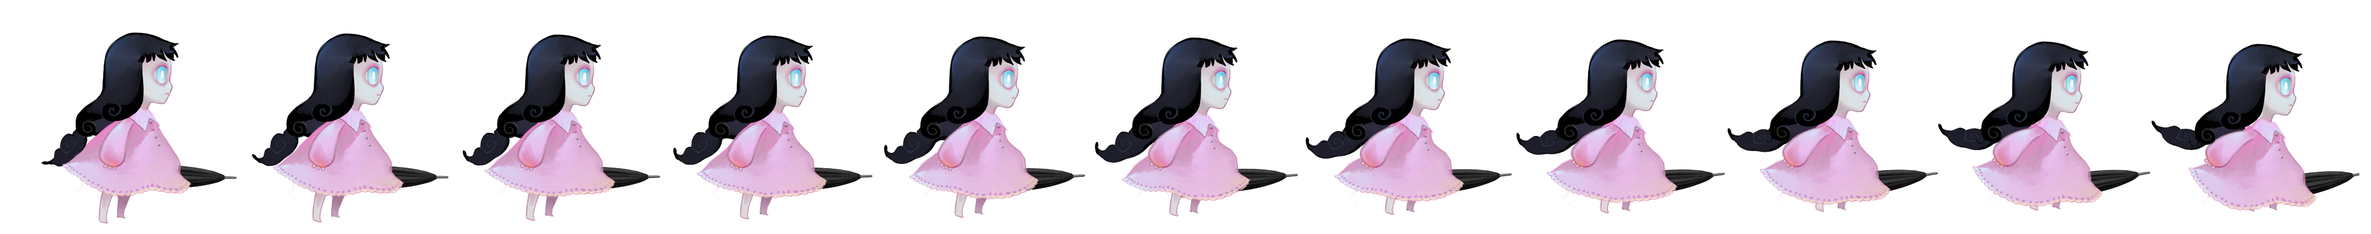
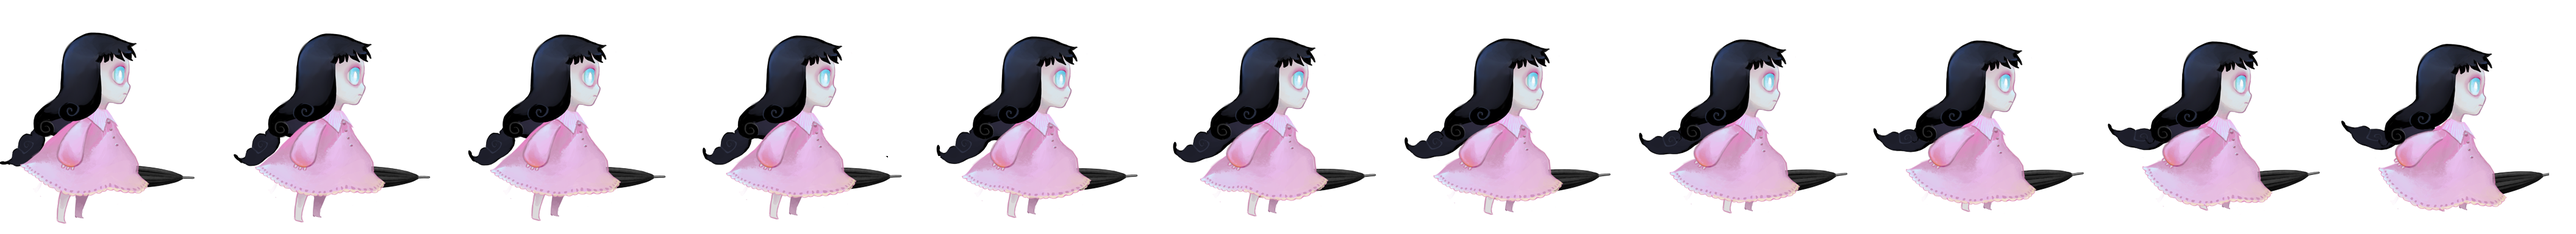
Escala funcionando

Changed region(s): [[0.0, 0.125, 0.9025, 0.9375], [0.9025, 0.1875, 0.9959, 0.9062]]

diff --git a/src/GameState.cpp b/src/GameState.cpp
@@ -71,11 +71,13 @@ void GameState::update(float dt)
 	// particleEmitterSystem_.update( dt, level_->getCollisionMap(), mapTransform_[particleEmitter_], mapEmitter_[particleEmitter_], mapTimer_[particleEmitter_] );
 	moveSystem_.update( dt, mapTransform_, mapSpeed_ );
 	collisionSystem_.update( player_, level_->getCollisionMap(), oldTransform, mapTransform_, mapCollider_, mapSpeed_, oldState, mapState_, mapZipline_ );
-	renderSystem_.update( dt, mapTransform_, oldState, mapState_, mapRender_ );
-	playerRenderSystem_.update( dt, mapTransform_[player_], (PlayerStateComponent*)oldState[player_], (PlayerStateComponent*)mapState_[player_], &playerRenderComponent_ ); // ai q feio
+	renderSystem_.update( dt, oldState, mapState_, mapRender_ );
+	playerRenderSystem_.update( dt, (PlayerStateComponent*)oldState[player_], (PlayerStateComponent*)mapState_[player_], &playerRenderComponent_ ); // ai q feio
 	soundSystem_.update(oldState, mapState_, mapSound_);
 
 	Camera::update(dt);
+
+	std::cout << mapTransform_[player_]->scale_.x() << std::endl;
 
 
 	if (InputHandler::getInstance().keyPress(ESCAPE_KEY)) {
@@ -127,30 +129,30 @@ void GameState::createPlayer()
 	nextId_++;
 
 
-	mapTransform_.emplace(player_, new TransformComponent(Rect(352, 100, 52, 90), Vec2(0.2, 0.2), 0));
+	mapTransform_.emplace(player_, new TransformComponent(Rect(352, 100, 52, 90), Vec2(0.3, 0.3), 0));
 	mapCollider_.emplace(player_, new ColliderComponent(Rect(0, 0, 52, 90)));
 	mapState_.emplace(player_, new PlayerStateComponent());
 	mapPhysics_.emplace(player_, new PhysicsComponent());
 	mapSpeed_.emplace(player_, new SpeedComponent());
 	mapSound_.emplace(player_, new SoundComponent());
 
-/*	playerRenderComponent_.addSprite(State::IDLE, UmbrellaState::CLOSED, UmbrellaDirection::DOWN, 
+	playerRenderComponent_.addSprite(State::IDLE, UmbrellaState::CLOSED, UmbrellaDirection::DOWN, 
 		Sprite("../img/characters/player/idle.png", 24, 0.01));
 	playerRenderComponent_.addSprite(State::WALKING, UmbrellaState::CLOSED, UmbrellaDirection::DOWN, 
-		Sprite("../img/characters/player/run_front_closed.png", 24, 0.01));
+		Sprite("../img/characters/player/running_front_closed.png", 24, 0.01));
 	playerRenderComponent_.addSprite(State::JUMPING, UmbrellaState::CLOSED, UmbrellaDirection::DOWN, 
-		Sprite("../img/characters/player/jump_front_closed.png", 23, 0.01));
+		Sprite("../img/characters/player/jumping_front_closed.png", 23, 0.01));
 	playerRenderComponent_.addSprite(State::FALLING, UmbrellaState::CLOSED, UmbrellaDirection::DOWN, 
-		Sprite("../img/characters/player/falling_front_closed.png", 11, 0.01));*/
+		Sprite("../img/characters/player/falling_front_closed.png", 11, 0.01));
 
-	playerRenderComponent_.addSprite(State::IDLE, UmbrellaState::CLOSED, UmbrellaDirection::DOWN, 
+/*	playerRenderComponent_.addSprite(State::IDLE, UmbrellaState::CLOSED, UmbrellaDirection::DOWN, 
 		Sprite("../img/characters/idle.png"));
 	playerRenderComponent_.addSprite(State::WALKING, UmbrellaState::CLOSED, UmbrellaDirection::DOWN, 
 		Sprite("../img/characters/idle.png"));
 	playerRenderComponent_.addSprite(State::JUMPING, UmbrellaState::CLOSED, UmbrellaDirection::DOWN, 
 		Sprite("../img/characters/idle.png"));
 	playerRenderComponent_.addSprite(State::FALLING, UmbrellaState::CLOSED, UmbrellaDirection::DOWN, 
-		Sprite("../img/characters/idle.png"));
+		Sprite("../img/characters/idle.png"));*/
 
 	mapSound_[player_]->addSound(State::JUMPING, Sound("../audio/character_jump.wav"));
 	mapSound_[player_]->addSound(State::FALLING, Sound("../audio/character_fall.wav"));	//Mudar para ("estado: colidindo com o chão")

diff --git a/src/RenderSystem.cpp b/src/RenderSystem.cpp
@@ -10,7 +10,6 @@ RenderSystem::RenderSystem()
 
 void RenderSystem::update(
 	float dt,
-	std::map<int, TransformComponent*> transfComp,
 	std::map<int, StateComponent*> oldState,
 	std::map<int, StateComponent*> stateComp,
 	std::map<int, std::map<int, RenderComponent*>> renderComp)
@@ -21,8 +20,6 @@ void RenderSystem::update(
 		{
 			if (stateComp[render.first]->state_ != oldState[render.first]->state_)
 			{
-				render.second->getSprite(stateComp[render.first]->state_).setScaleX(transfComp[render.first]->scale_.x());
-				render.second->getSprite(stateComp[render.first]->state_).setScaleY(transfComp[render.first]->scale_.y());
 				render.second->getSprite(stateComp[render.first]->state_).setFrame(0);
 			}
 			render.second->getSprite(stateComp[render.first]->state_).update(dt);
@@ -57,6 +54,8 @@ void RenderSystem::render(
 	for(auto& render : renderComp)
 	{
 		Rect transform = transfComp[render.first]->rect_;
+		render.second->getSprite(stateComp[render.first]->state_).setScaleX(transfComp[render.first]->scale_.x());
+		render.second->getSprite(stateComp[render.first]->state_).setScaleY(transfComp[render.first]->scale_.y());
 		render.second->getSprite(stateComp[render.first]->state_).render(
 			transform.x() + layerSpeed.x(),
 			transform.y() + layerSpeed.y(),

diff --git a/src/PlayerRenderSystem.cpp b/src/PlayerRenderSystem.cpp
@@ -9,7 +9,6 @@ PlayerRenderSystem::PlayerRenderSystem()
 
 void PlayerRenderSystem::update(
 	float dt,
-	TransformComponent* transfComp,
 	PlayerStateComponent* oldState,
 	PlayerStateComponent* stateComp,
 	PlayerRenderComponent* renderComp)
@@ -23,8 +22,6 @@ void PlayerRenderSystem::update(
 		stateComp->umbrellaState_ != oldState->umbrellaState_ || 
 		stateComp->umbrellaDirection_ != oldState->umbrellaDirection_)
 	{
-		renderComp->getSprite(spriteKey).setScaleX(transfComp->scale_.x());
-		renderComp->getSprite(spriteKey).setScaleY(transfComp->scale_.y());
 		renderComp->getSprite(spriteKey).setFrame(0);
 	}
 	renderComp->getSprite(spriteKey).update(dt);
@@ -41,6 +38,8 @@ void PlayerRenderSystem::render(
 	spriteKey.umbrellaDirection = stateComp->umbrellaDirection_;
 
 	Rect transform = transfComp->rect_;
+	renderComp->getSprite(spriteKey).setScaleX(transfComp->scale_.x());
+	renderComp->getSprite(spriteKey).setScaleY(transfComp->scale_.y());
 	renderComp->getSprite(spriteKey).render(
 		transform.x(),
 		transform.y(),

diff --git a/include/RenderSystem.hpp b/include/RenderSystem.hpp
@@ -14,7 +14,6 @@ public:
 	RenderSystem();
 	void update(
 		float dt,
-		std::map<int, TransformComponent*> transfComp,
 		std::map<int, StateComponent*> oldState,
 		std::map<int, StateComponent*> stateComp,
 		std::map<int, std::map<int, RenderComponent*>> renderComp

diff --git a/include/PlayerRenderSystem.hpp b/include/PlayerRenderSystem.hpp
@@ -14,7 +14,6 @@ public:
 	PlayerRenderSystem();
 	void update(
 		float dt,
-		TransformComponent* transfComp,
 		PlayerStateComponent* oldState,
 		PlayerStateComponent* stateComp,
 		PlayerRenderComponent* renderComp
